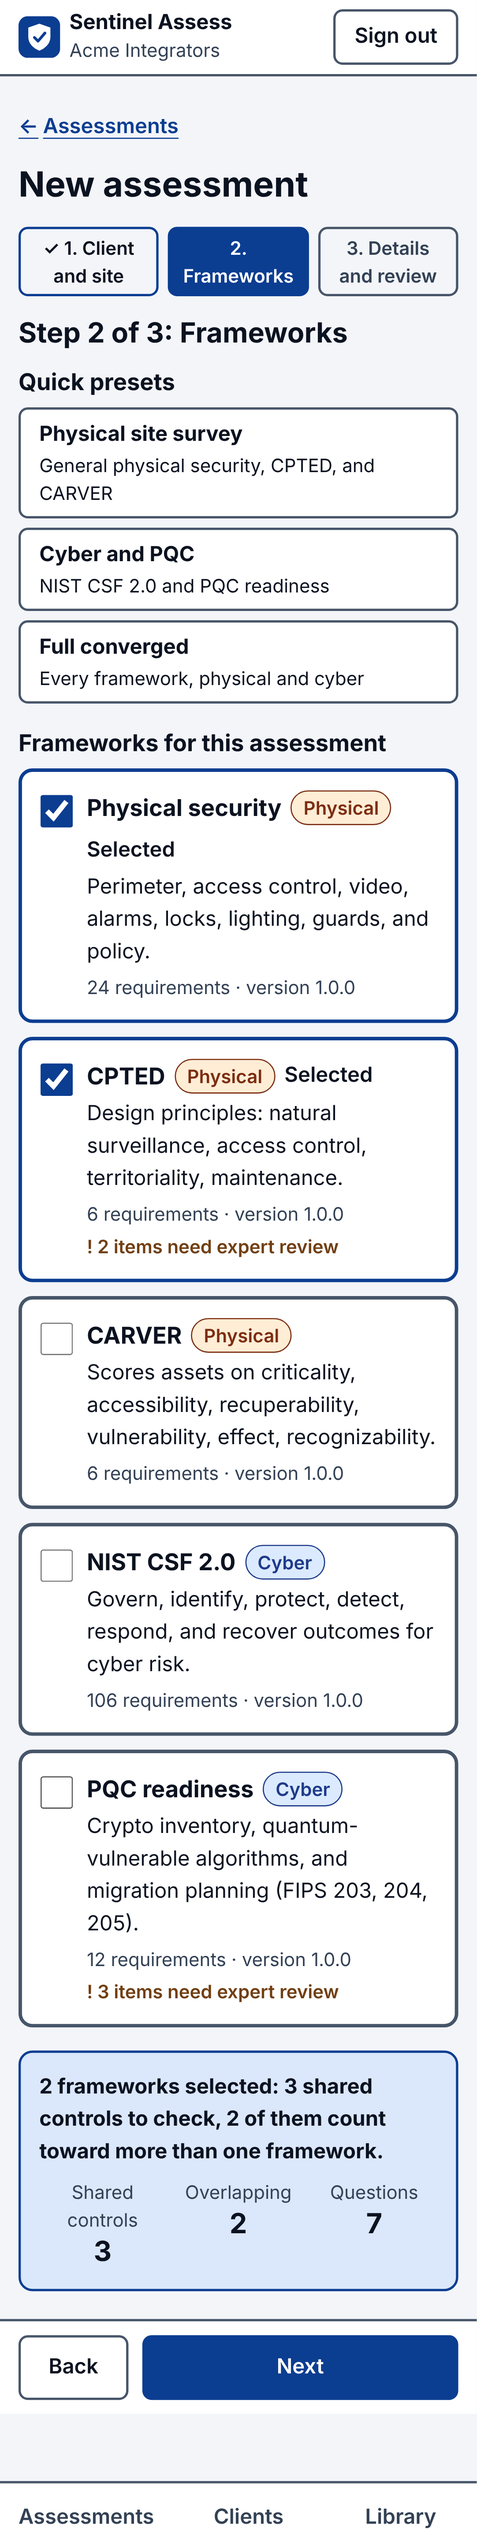
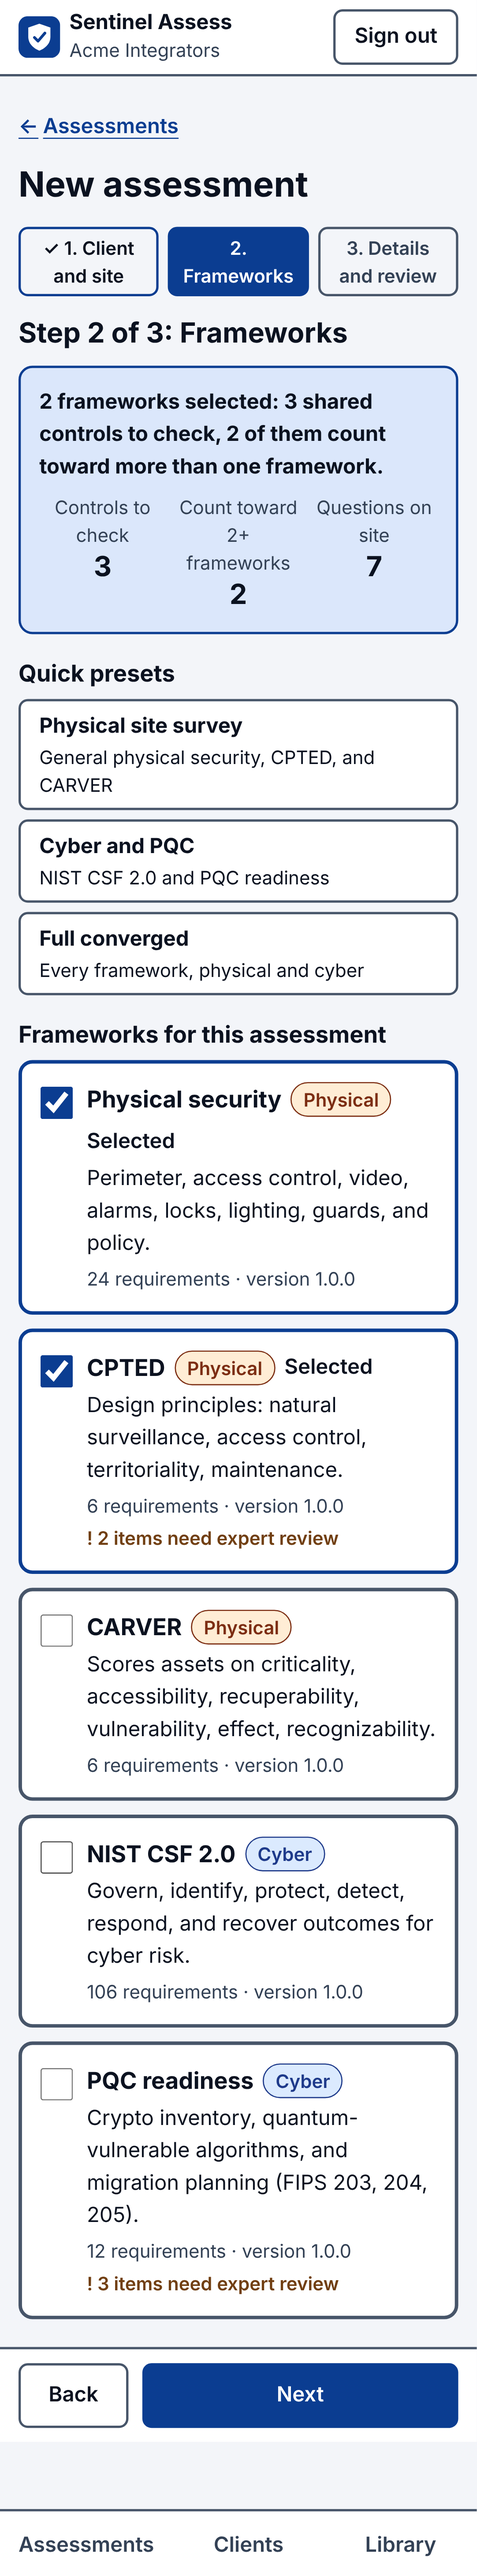
Fix field review P1-3, P1-4, P1-7 and QA R-2, R-4, R-11, R-14
Coverage summary first with plain labels; sign-out warns about unsaved
items and clears the outbox; Create assessment disabled offline; API
responses are no-store; locked-account timing equalized; Google error
messages complete. Refreshed live screenshots.

Claude-Session: https://claude.ai/code/session_01HNa1ozX4GZGKmeVcuqB8ie

diff --git a/apps/web/src/components/FrameworkPicker.tsx b/apps/web/src/components/FrameworkPicker.tsx
@@ -38,6 +38,25 @@ export function FrameworkPicker({ frameworks, value, onChange, controlsByFramewo
 
   return (
     <div className="flex flex-col gap-5">
+      <div role="status" aria-live="polite" className="rounded-xl border-2 border-primary bg-primary-soft p-4" data-testid="picker-summary">
+        <p className="font-bold">{summary}</p>
+        {value.length > 0 && coverage.complete && (
+          <dl className="mt-2 grid grid-cols-3 gap-2 text-center">
+            <div>
+              <dt className="text-base text-muted">Controls to check</dt>
+              <dd className="text-2xl font-bold">{coverage.controlCount}</dd>
+            </div>
+            <div>
+              <dt className="text-base text-muted">Count toward 2+ frameworks</dt>
+              <dd className="text-2xl font-bold">{coverage.overlapCount}</dd>
+            </div>
+            <div>
+              <dt className="text-base text-muted">Questions on site</dt>
+              <dd className="text-2xl font-bold">{coverage.questionCount}</dd>
+            </div>
+          </dl>
+        )}
+      </div>
       <section aria-labelledby={`${legendId}-presets`} className="flex flex-col gap-2">
         <h2 id={`${legendId}-presets`} className="text-xl font-bold">
           Quick presets
@@ -131,25 +150,6 @@ export function FrameworkPicker({ frameworks, value, onChange, controlsByFramewo
         </ul>
       </fieldset>
 
-      <div role="status" aria-live="polite" className="rounded-xl border-2 border-primary bg-primary-soft p-4" data-testid="picker-summary">
-        <p className="font-bold">{summary}</p>
-        {value.length > 0 && coverage.complete && (
-          <dl className="mt-2 grid grid-cols-3 gap-2 text-center">
-            <div>
-              <dt className="text-base text-muted">Shared controls</dt>
-              <dd className="text-2xl font-bold">{coverage.controlCount}</dd>
-            </div>
-            <div>
-              <dt className="text-base text-muted">Overlapping</dt>
-              <dd className="text-2xl font-bold">{coverage.overlapCount}</dd>
-            </div>
-            <div>
-              <dt className="text-base text-muted">Questions</dt>
-              <dd className="text-2xl font-bold">{coverage.questionCount}</dd>
-            </div>
-          </dl>
-        )}
-      </div>
     </div>
   );
 }

diff --git a/apps/web/src/screens/NewAssessment.tsx b/apps/web/src/screens/NewAssessment.tsx
@@ -11,6 +11,7 @@ import { computeCoverage } from "../components/coverage";
 import { Banner, Button, Card, Chip, EmptyState, Field, Loading, PageHeader, categoryLabel, categoryTone } from "../components/ui";
 import { errorMessage, useAsync } from "../lib/useAsync";
 import { deleteDraft, getDraft, saveDraft } from "../offline/db";
+import { useOnline } from "../offline/useOnline";
 
 const DRAFT_ID = "new-assessment";
 
@@ -51,6 +52,7 @@ export function NewAssessment() {
   const [restored, setRestored] = useState(false);
   const [error, setError] = useState<string | null>(null);
   const [busy, setBusy] = useState(false);
+  const online = useOnline();
   const headingRef = useRef<HTMLHeadingElement>(null);
   const firstRender = useRef(true);
 
@@ -254,9 +256,16 @@ export function NewAssessment() {
             Next
           </Button>
         ) : (
-          <Button size="lg" className="flex-1" onClick={() => void create()} disabled={busy}>
-            {busy ? "Creating…" : "Create assessment"}
-          </Button>
+          <div className="flex flex-1 flex-col gap-1">
+            <Button size="lg" className="w-full" onClick={() => void create()} disabled={busy || !online} aria-describedby={online ? undefined : "offline-create-note"}>
+              {busy ? "Creating…" : "Create assessment"}
+            </Button>
+            {!online && (
+              <p id="offline-create-note" className="text-base font-semibold">
+                You are offline. Your choices are saved on this device; create the assessment when you have signal.
+              </p>
+            )}
+          </div>
         )}
       </div>
     </>

diff --git a/apps/web/src/components/AppShell.tsx b/apps/web/src/components/AppShell.tsx
@@ -2,6 +2,7 @@ import { NavLink, Outlet } from "react-router-dom";
 import { useAuth } from "../auth/AuthContext";
 import { useOnline } from "../offline/useOnline";
 import { Banner, Button, Logo } from "./ui";
+import { pendingLocalCount } from "../offline/db";
 
 const NAV = [
   { to: "/", label: "Assessments", end: true },
@@ -21,6 +22,19 @@ export function OfflineBanner() {
   );
 }
 
+/** Field review P1-4: warn before sign out deletes unsaved work on this device. */
+async function confirmSignOut(signOut: () => Promise<void>) {
+  const pending = await pendingLocalCount().catch(() => 0);
+  if (
+    pending > 0 &&
+    !window.confirm(
+      `You have ${pending} unsaved ${pending === 1 ? "item" : "items"} on this device. Signing out deletes them. Sign out anyway?`,
+    )
+  )
+    return;
+  await signOut();
+}
+
 export function AppShell() {
   const { session, signOut } = useAuth();
   return (
@@ -37,7 +51,7 @@ export function AppShell() {
               {session && <p className="truncate text-base text-muted">{session.tenant.name}</p>}
             </div>
           </div>
-          <Button variant="secondary" onClick={() => void signOut()}>
+          <Button variant="secondary" onClick={() => void confirmSignOut(signOut)}>
             Sign out
           </Button>
         </div>

diff --git a/apps/web/src/auth/AuthContext.tsx b/apps/web/src/auth/AuthContext.tsx
@@ -1,7 +1,7 @@
 import { createContext, useContext, useEffect, useMemo, useState, type ReactNode } from "react";
 import type { LoginRequest, SessionInfo } from "@sentinel/shared";
 import { createApiClient, type ApiClient } from "../api/client";
-import { clearDrafts } from "../offline/db";
+import { clearDrafts, clearOutbox } from "../offline/db";
 
 type Status = "loading" | "signed_out" | "signed_in";
 
@@ -56,6 +56,7 @@ export function AuthProvider({ children, client }: { children: ReactNode; client
       async signOut() {
         await api.logout();
         await clearDrafts().catch(() => undefined);
+        await clearOutbox().catch(() => undefined);
         setSession(null);
         setStatus("signed_out");
       },

diff --git a/apps/web/src/offline/db.ts b/apps/web/src/offline/db.ts
@@ -119,6 +119,17 @@ export async function clearDrafts(): Promise<void> {
   await (await getDb()).clear("drafts");
 }
 
+/** Number of unsaved items (drafts plus queued changes) that sign out would delete. */
+export async function pendingLocalCount(): Promise<number> {
+  const db = await getDb();
+  return (await db.count("drafts")) + (await db.count("outbox"));
+}
+
+/** Queued changes can hold client data, so they are cleared on sign out too (QA R-11). */
+export async function clearOutbox(): Promise<void> {
+  await (await getDb()).clear("outbox");
+}
+
 // ---------- outbox ----------
 
 export async function enqueue(input: OutboxInput): Promise<OutboxItem> {

diff --git a/apps/api/src/app.ts b/apps/api/src/app.ts
@@ -49,6 +49,10 @@ export async function buildApp(cfg: Config, deps: AppDeps = {}): Promise<Fastify
   });
 
   await app.register(helmet, { crossOriginResourcePolicy: { policy: "same-site" } });
+  // API responses may carry tenant data or tokens: never let browsers or proxies cache them (QA R-4).
+  app.addHook("onSend", async (_req, reply) => {
+    reply.header("Cache-Control", "no-store");
+  });
   await app.register(cors, {
     origin: [cfg.WEB_ORIGIN], // exact match; other origins get no CORS headers
     credentials: true,

diff --git a/apps/web/src/screens/SignIn.tsx b/apps/web/src/screens/SignIn.tsx
@@ -15,6 +15,8 @@ const GOOGLE_ERRORS: Record<string, string> = {
   account_mismatch: "That Google account is linked to a different Sentinel user.",
   google_denied: "Google sign in was cancelled.",
   invalid_state: "The sign in link expired; try again.",
+  tenant_required: "Your Google account belongs to several workspaces; sign in with email and password to choose one.",
+  invalid_request: "The sign in request was not valid; start again.",
   google_failed: "Google sign in failed; try again or use email and password.",
 };
 

diff --git a/apps/api/src/routes/auth.ts b/apps/api/src/routes/auth.ts
@@ -122,6 +122,7 @@ export async function authRoutes(app: FastifyInstance, { cfg, db }: { cfg: Confi
 
     if (user.locked_until && new Date(user.locked_until) > new Date()) {
       await logFailure("locked");
+      await verifyPassword(null, body.password); // equalize timing with the unknown-user path (QA R-2)
       throw new AppError(429, "account_locked", "Too many failed sign-in attempts. Try again later.");
     }
     if (!(await verifyPassword(user.password_hash, body.password))) {

diff --git a/docs/decisions.md b/docs/decisions.md
@@ -30,3 +30,5 @@ Routine engineering decisions, newest last. Product decisions go to CW and are r
 | D-024 | 2026-11-04 | Google OIDC: authorization code flow with PKCE (S256), state, and nonce sealed in an encrypted (A256GCM) `sa_oidc` cookie, SameSite=Lax (it must survive the cross-site redirect back from Google), path `/auth/google`, 10 minute life. ID tokens verified with jose against Google's JWKS; existing users only, matched by verified email, Google `sub` linked on first use and enforced afterwards. | US-1.01 without server-side session storage; no auto-provisioning per the story. | backend-integrations-engineer |
 | D-025 | 2026-11-04 | The seed loads the framework library strictly when it validates and otherwise leniently (skips invalid files and dangling crosswalk entries, reports them); `--strict` and production always load strictly. | The library is authored concurrently; dev environments should still come up. | backend-integrations-engineer |
 | D-026 | 2026-11-04 | Library 1.0.0 stays editable until Phase 1 sign-off by CW; after that, any content change publishes a new version (D-005). Framework `description` is assessor-facing plain language; provenance notes move to `sources[].note`. CSF 2.0 subcategories have no official titles, so the title is the outcome text (truncated at 90 characters). | Field review P1-1 and P1-5; no assessment outside dev has pinned 1.0.0 yet. | Head of Eng |
+| D-027 | 2026-11-04 | Field review P1 fixes: coverage summary moved above the framework list with plain labels; sign out warns when drafts or queued changes would be deleted and now clears the outbox too (QA R-11); Create assessment is disabled offline with an explanation, the draft is kept. | Field review P1-3, P1-4, P1-7. | Head of Eng |
+| D-028 | 2026-11-04 | QA quick wins: `Cache-Control: no-store` on every API response (R-4); locked-account path runs the dummy argon2 check to equalize timing (R-2); sign-in shows messages for `tenant_required` and `invalid_request` (R-14). zod 4 upgrade (R-1) deferred to the start of Phase 2. | Low effort, closes three review items; zod 4 touches every schema. | Head of Eng |
